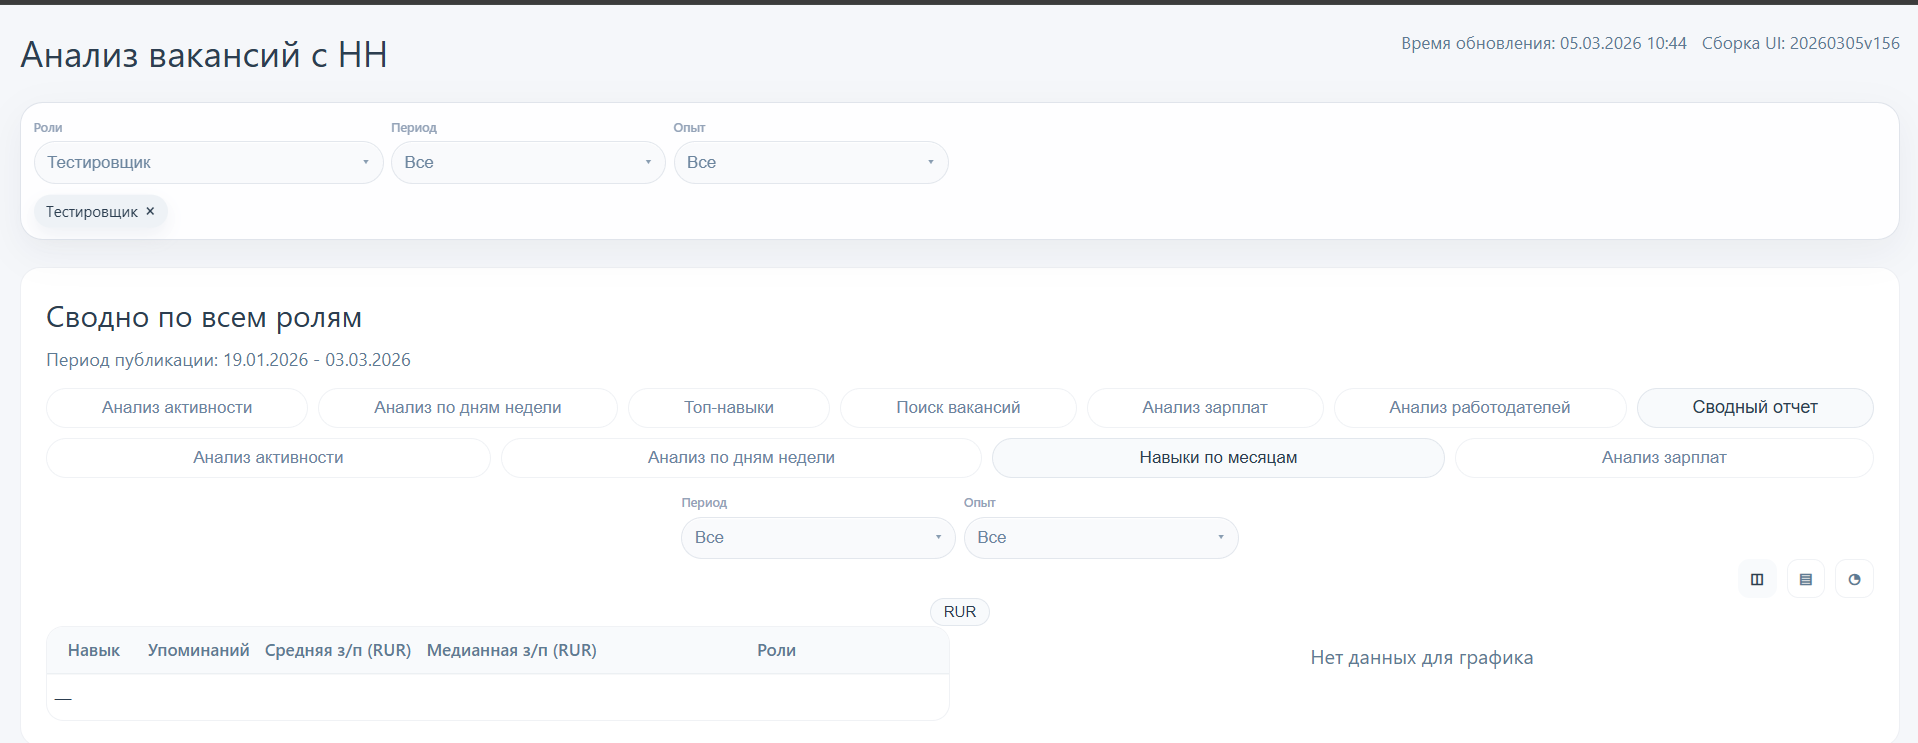
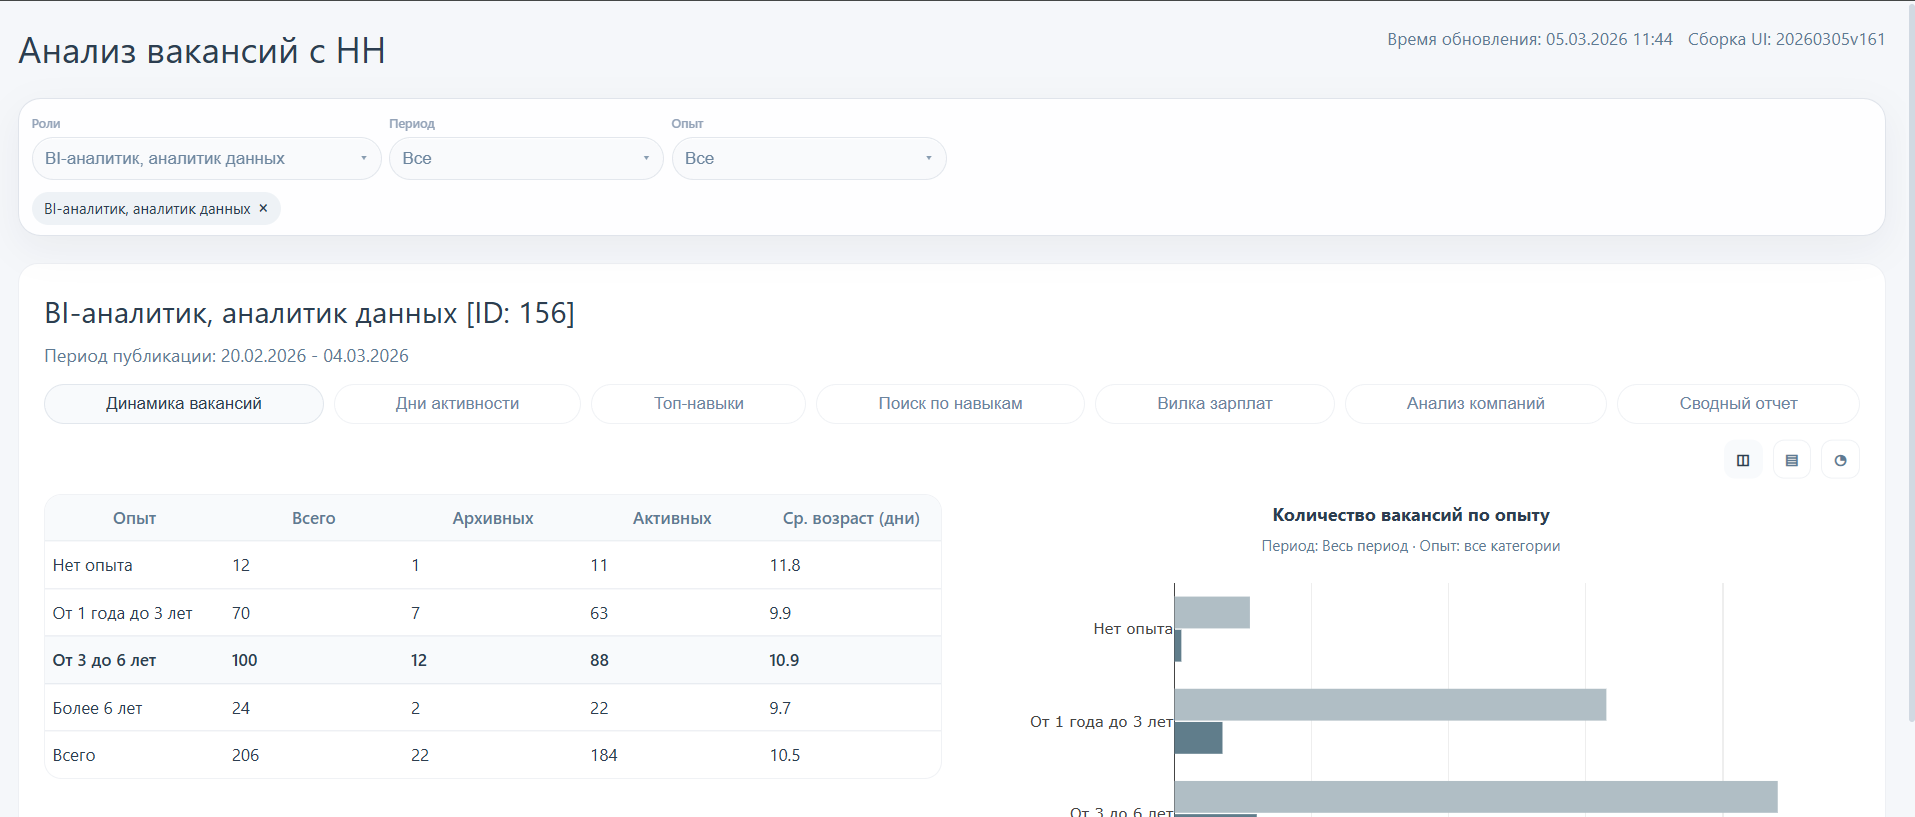
rename tabs

diff --git a/reports/report.render.js b/reports/report.render.js
@@ -608,19 +608,19 @@ function renderAllRolesContainer(container, roleContents) {
         '<h2>Сводно по всем ролям</h2>' +
         '<div class="role-period-label">Период публикации: 19.01.2026 - 03.03.2026</div>' +
         '<div class="tabs summary-return-tabs">' +
-            '<button type="button" class="tab-button analysis-button summary-return-tab" onclick="switchFromSummaryToAnalysis(\'activity\')">Анализ активности</button>' +
-            '<button type="button" class="tab-button analysis-button summary-return-tab" onclick="switchFromSummaryToAnalysis(\'weekday\')">Анализ по дням недели</button>' +
+            '<button type="button" class="tab-button analysis-button summary-return-tab" onclick="switchFromSummaryToAnalysis(\'activity\')">Динамика вакансий</button>' +
+            '<button type="button" class="tab-button analysis-button summary-return-tab" onclick="switchFromSummaryToAnalysis(\'weekday\')">Дни активности</button>' +
             '<button type="button" class="tab-button analysis-button summary-return-tab" onclick="switchFromSummaryToAnalysis(\'skills-monthly\')">Топ-навыки</button>' +
-            '<button type="button" class="tab-button analysis-button summary-return-tab" onclick="switchFromSummaryToAnalysis(\'skills-search\')">Поиск вакансий</button>' +
-            '<button type="button" class="tab-button analysis-button summary-return-tab" onclick="switchFromSummaryToAnalysis(\'salary\')">Анализ зарплат</button>' +
-            '<button type="button" class="tab-button analysis-button summary-return-tab" onclick="switchFromSummaryToAnalysis(\'employer-analysis\')">Анализ работодателей</button>' +
+            '<button type="button" class="tab-button analysis-button summary-return-tab" onclick="switchFromSummaryToAnalysis(\'skills-search\')">Поиск по навыкам</button>' +
+            '<button type="button" class="tab-button analysis-button summary-return-tab" onclick="switchFromSummaryToAnalysis(\'salary\')">Вилка зарплат</button>' +
+            '<button type="button" class="tab-button analysis-button summary-return-tab" onclick="switchFromSummaryToAnalysis(\'employer-analysis\')">Анализ компаний</button>' +
             '<button type="button" class="tab-button summary-return-tab active">Сводный отчет</button>' +
         '</div>' +
         '<div class="tabs analysis-tabs">' +
-            '<button class="tab-button analysis-button active" data-analysis-id="activity-all" onclick="switchAnalysis(event, \'activity-all\')">Анализ активности</button>' +
-            '<button class="tab-button analysis-button" data-analysis-id="weekday-all" onclick="switchAnalysis(event, \'weekday-all\')">Анализ по дням недели</button>' +
-            '<button class="tab-button analysis-button" data-analysis-id="skills-monthly-all" onclick="switchAnalysis(event, \'skills-monthly-all\')">Навыки по месяцам</button>' +
-            '<button class="tab-button analysis-button" data-analysis-id="salary-all" onclick="switchAnalysis(event, \'salary-all\')">Анализ зарплат</button>' +
+            '<button class="tab-button analysis-button active" data-analysis-id="activity-all" onclick="switchAnalysis(event, \'activity-all\')">Динамика по ролям</button>' +
+            '<button class="tab-button analysis-button" data-analysis-id="weekday-all" onclick="switchAnalysis(event, \'weekday-all\')">Лидер публикаций</button>' +
+            '<button class="tab-button analysis-button" data-analysis-id="skills-monthly-all" onclick="switchAnalysis(event, \'skills-monthly-all\')">Стоимость навыков</button>' +
+            '<button class="tab-button analysis-button" data-analysis-id="salary-all" onclick="switchAnalysis(event, \'salary-all\')">Вилка по ролям</button>' +
         '</div>' +
         buildSharedPeriodTabs() +
         activityHtml +
@@ -1029,12 +1029,12 @@ function renderCombinedContainer(container, roleContents) {
         '<h2>' + roleTitle + '</h2>' +
         '<div class="role-period-label">Период публикации: ' + period + '</div>' +
         '<div class="tabs analysis-tabs">' +
-            '<button class="tab-button analysis-button active" data-analysis-id="activity-combined" onclick="switchAnalysis(event, \'activity-combined\')">Анализ активности</button>' +
-            '<button class="tab-button analysis-button" data-analysis-id="weekday-combined" onclick="switchAnalysis(event, \'weekday-combined\')">Анализ по дням недели</button>' +
+            '<button class="tab-button analysis-button active" data-analysis-id="activity-combined" onclick="switchAnalysis(event, \'activity-combined\')">Динамика вакансий</button>' +
+            '<button class="tab-button analysis-button" data-analysis-id="weekday-combined" onclick="switchAnalysis(event, \'weekday-combined\')">Дни активности</button>' +
             '<button class="tab-button analysis-button" data-analysis-id="skills-monthly-combined" onclick="switchAnalysis(event, \'skills-monthly-combined\')">Топ-навыки</button>' +
             '<button class="tab-button analysis-button" data-analysis-id="skills-search-combined" onclick="switchAnalysis(event, \'skills-search-combined\')">Поиск по навыкам</button>' +
-            '<button class="tab-button analysis-button" data-analysis-id="salary-combined" onclick="switchAnalysis(event, \'salary-combined\')">Анализ зарплат</button>' +
-            '<button class="tab-button analysis-button" data-analysis-id="employer-analysis-combined" onclick="switchAnalysis(event, \'employer-analysis-combined\')">Анализ работодателей</button>' +
+            '<button class="tab-button analysis-button" data-analysis-id="salary-combined" onclick="switchAnalysis(event, \'salary-combined\')">Вилка зарплат</button>' +
+            '<button class="tab-button analysis-button" data-analysis-id="employer-analysis-combined" onclick="switchAnalysis(event, \'employer-analysis-combined\')">Анализ компаний</button>' +
         '</div>' +
         activityBlocks +
         weekdayBlock +

diff --git a/reports/static/report.render.js b/reports/static/report.render.js
@@ -608,19 +608,19 @@ function renderAllRolesContainer(container, roleContents) {
         '<h2>Сводно по всем ролям</h2>' +
         '<div class="role-period-label">Период публикации: 19.01.2026 - 03.03.2026</div>' +
         '<div class="tabs summary-return-tabs">' +
-            '<button type="button" class="tab-button analysis-button summary-return-tab" onclick="switchFromSummaryToAnalysis(\'activity\')">Анализ активности</button>' +
-            '<button type="button" class="tab-button analysis-button summary-return-tab" onclick="switchFromSummaryToAnalysis(\'weekday\')">Анализ по дням недели</button>' +
+            '<button type="button" class="tab-button analysis-button summary-return-tab" onclick="switchFromSummaryToAnalysis(\'activity\')">Динамика вакансий</button>' +
+            '<button type="button" class="tab-button analysis-button summary-return-tab" onclick="switchFromSummaryToAnalysis(\'weekday\')">Дни активности</button>' +
             '<button type="button" class="tab-button analysis-button summary-return-tab" onclick="switchFromSummaryToAnalysis(\'skills-monthly\')">Топ-навыки</button>' +
-            '<button type="button" class="tab-button analysis-button summary-return-tab" onclick="switchFromSummaryToAnalysis(\'skills-search\')">Поиск вакансий</button>' +
-            '<button type="button" class="tab-button analysis-button summary-return-tab" onclick="switchFromSummaryToAnalysis(\'salary\')">Анализ зарплат</button>' +
-            '<button type="button" class="tab-button analysis-button summary-return-tab" onclick="switchFromSummaryToAnalysis(\'employer-analysis\')">Анализ работодателей</button>' +
+            '<button type="button" class="tab-button analysis-button summary-return-tab" onclick="switchFromSummaryToAnalysis(\'skills-search\')">Поиск по навыкам</button>' +
+            '<button type="button" class="tab-button analysis-button summary-return-tab" onclick="switchFromSummaryToAnalysis(\'salary\')">Вилка зарплат</button>' +
+            '<button type="button" class="tab-button analysis-button summary-return-tab" onclick="switchFromSummaryToAnalysis(\'employer-analysis\')">Анализ компаний</button>' +
             '<button type="button" class="tab-button summary-return-tab active">Сводный отчет</button>' +
         '</div>' +
         '<div class="tabs analysis-tabs">' +
-            '<button class="tab-button analysis-button active" data-analysis-id="activity-all" onclick="switchAnalysis(event, \'activity-all\')">Анализ активности</button>' +
-            '<button class="tab-button analysis-button" data-analysis-id="weekday-all" onclick="switchAnalysis(event, \'weekday-all\')">Анализ по дням недели</button>' +
-            '<button class="tab-button analysis-button" data-analysis-id="skills-monthly-all" onclick="switchAnalysis(event, \'skills-monthly-all\')">Навыки по месяцам</button>' +
-            '<button class="tab-button analysis-button" data-analysis-id="salary-all" onclick="switchAnalysis(event, \'salary-all\')">Анализ зарплат</button>' +
+            '<button class="tab-button analysis-button active" data-analysis-id="activity-all" onclick="switchAnalysis(event, \'activity-all\')">Динамика по ролям</button>' +
+            '<button class="tab-button analysis-button" data-analysis-id="weekday-all" onclick="switchAnalysis(event, \'weekday-all\')">Лидер публикаций</button>' +
+            '<button class="tab-button analysis-button" data-analysis-id="skills-monthly-all" onclick="switchAnalysis(event, \'skills-monthly-all\')">Стоимость навыков</button>' +
+            '<button class="tab-button analysis-button" data-analysis-id="salary-all" onclick="switchAnalysis(event, \'salary-all\')">Вилка по ролям</button>' +
         '</div>' +
         buildSharedPeriodTabs() +
         activityHtml +
@@ -1029,12 +1029,12 @@ function renderCombinedContainer(container, roleContents) {
         '<h2>' + roleTitle + '</h2>' +
         '<div class="role-period-label">Период публикации: ' + period + '</div>' +
         '<div class="tabs analysis-tabs">' +
-            '<button class="tab-button analysis-button active" data-analysis-id="activity-combined" onclick="switchAnalysis(event, \'activity-combined\')">Анализ активности</button>' +
-            '<button class="tab-button analysis-button" data-analysis-id="weekday-combined" onclick="switchAnalysis(event, \'weekday-combined\')">Анализ по дням недели</button>' +
+            '<button class="tab-button analysis-button active" data-analysis-id="activity-combined" onclick="switchAnalysis(event, \'activity-combined\')">Динамика вакансий</button>' +
+            '<button class="tab-button analysis-button" data-analysis-id="weekday-combined" onclick="switchAnalysis(event, \'weekday-combined\')">Дни активности</button>' +
             '<button class="tab-button analysis-button" data-analysis-id="skills-monthly-combined" onclick="switchAnalysis(event, \'skills-monthly-combined\')">Топ-навыки</button>' +
             '<button class="tab-button analysis-button" data-analysis-id="skills-search-combined" onclick="switchAnalysis(event, \'skills-search-combined\')">Поиск по навыкам</button>' +
-            '<button class="tab-button analysis-button" data-analysis-id="salary-combined" onclick="switchAnalysis(event, \'salary-combined\')">Анализ зарплат</button>' +
-            '<button class="tab-button analysis-button" data-analysis-id="employer-analysis-combined" onclick="switchAnalysis(event, \'employer-analysis-combined\')">Анализ работодателей</button>' +
+            '<button class="tab-button analysis-button" data-analysis-id="salary-combined" onclick="switchAnalysis(event, \'salary-combined\')">Вилка зарплат</button>' +
+            '<button class="tab-button analysis-button" data-analysis-id="employer-analysis-combined" onclick="switchAnalysis(event, \'employer-analysis-combined\')">Анализ компаний</button>' +
         '</div>' +
         activityBlocks +
         weekdayBlock +

diff --git a/reports/report.ui.js b/reports/report.ui.js
@@ -653,8 +653,54 @@ if (typeof window !== 'undefined' && typeof plotIfChangedById === 'function') {
     };
 }
 
+function applyAnalysisTabNaming(root) {
+    var scope = root || document;
+    var mapDefault = {
+        activity: 'Динамика вакансий',
+        weekday: 'Дни активности',
+        salary: 'Вилка зарплат',
+        employer: 'Анализ компаний'
+    };
+    var mapSummary = {
+        activity: 'Динамика по ролям',
+        weekday: 'Лидер публикаций',
+        skills: 'Стоимость навыков',
+        salary: 'Вилка по ролям',
+        employer: 'Анализ компаний'
+    };
+    scope.querySelectorAll('.analysis-button[data-analysis-id]').forEach(function(btn) {
+        var id = String(btn.dataset.analysisId || '');
+        var tabsHost = btn.closest('.tabs');
+        var hasSummaryTab = !!(tabsHost && Array.from(tabsHost.querySelectorAll('button')).some(function(node) {
+            return String(node.textContent || '').trim() === 'Сводный отчет';
+        }));
+        if (hasSummaryTab) {
+            if (id.indexOf('activity-') === 0) btn.textContent = mapDefault.activity;
+            else if (id.indexOf('weekday-') === 0) btn.textContent = mapDefault.weekday;
+            else if (id.indexOf('salary-') === 0) btn.textContent = mapDefault.salary;
+            else if (id.indexOf('employer-analysis-') === 0) btn.textContent = mapDefault.employer;
+            return;
+        }
+        var isSummary = /-all$/.test(id);
+        if (id.indexOf('activity-') === 0) btn.textContent = isSummary ? mapSummary.activity : mapDefault.activity;
+        else if (id.indexOf('weekday-') === 0) btn.textContent = isSummary ? mapSummary.weekday : mapDefault.weekday;
+        else if (id.indexOf('skills-monthly-') === 0 && isSummary) btn.textContent = mapSummary.skills;
+        else if (id.indexOf('salary-') === 0) btn.textContent = isSummary ? mapSummary.salary : mapDefault.salary;
+        else if (id.indexOf('employer-analysis-') === 0) btn.textContent = isSummary ? mapSummary.employer : mapDefault.employer;
+    });
+    scope.querySelectorAll('.summary-return-tab[onclick]').forEach(function(btn) {
+        var onClick = String(btn.getAttribute('onclick') || '');
+        if (onClick.indexOf("switchFromSummaryToAnalysis('activity')") >= 0) btn.textContent = mapDefault.activity;
+        else if (onClick.indexOf("switchFromSummaryToAnalysis('weekday')") >= 0) btn.textContent = mapDefault.weekday;
+        else if (onClick.indexOf("switchFromSummaryToAnalysis('skills-search')") >= 0) btn.textContent = 'Поиск по навыкам';
+        else if (onClick.indexOf("switchFromSummaryToAnalysis('salary')") >= 0) btn.textContent = mapDefault.salary;
+        else if (onClick.indexOf("switchFromSummaryToAnalysis('employer-analysis')") >= 0) btn.textContent = mapDefault.employer;
+    });
+}
+
 // ---------- Переключение типов анализа ----------
 function switchAnalysis(evt, analysisId) {
+    applyAnalysisTabNaming(document);
     var parentRole = evt.currentTarget.closest('.role-content');
     var roleId = parentRole.id;
     var analysisButtons = parentRole.getElementsByClassName("analysis-button");

diff --git a/reports/static/report.ui.js b/reports/static/report.ui.js
@@ -653,8 +653,54 @@ if (typeof window !== 'undefined' && typeof plotIfChangedById === 'function') {
     };
 }
 
+function applyAnalysisTabNaming(root) {
+    var scope = root || document;
+    var mapDefault = {
+        activity: 'Динамика вакансий',
+        weekday: 'Дни активности',
+        salary: 'Вилка зарплат',
+        employer: 'Анализ компаний'
+    };
+    var mapSummary = {
+        activity: 'Динамика по ролям',
+        weekday: 'Лидер публикаций',
+        skills: 'Стоимость навыков',
+        salary: 'Вилка по ролям',
+        employer: 'Анализ компаний'
+    };
+    scope.querySelectorAll('.analysis-button[data-analysis-id]').forEach(function(btn) {
+        var id = String(btn.dataset.analysisId || '');
+        var tabsHost = btn.closest('.tabs');
+        var hasSummaryTab = !!(tabsHost && Array.from(tabsHost.querySelectorAll('button')).some(function(node) {
+            return String(node.textContent || '').trim() === 'Сводный отчет';
+        }));
+        if (hasSummaryTab) {
+            if (id.indexOf('activity-') === 0) btn.textContent = mapDefault.activity;
+            else if (id.indexOf('weekday-') === 0) btn.textContent = mapDefault.weekday;
+            else if (id.indexOf('salary-') === 0) btn.textContent = mapDefault.salary;
+            else if (id.indexOf('employer-analysis-') === 0) btn.textContent = mapDefault.employer;
+            return;
+        }
+        var isSummary = /-all$/.test(id);
+        if (id.indexOf('activity-') === 0) btn.textContent = isSummary ? mapSummary.activity : mapDefault.activity;
+        else if (id.indexOf('weekday-') === 0) btn.textContent = isSummary ? mapSummary.weekday : mapDefault.weekday;
+        else if (id.indexOf('skills-monthly-') === 0 && isSummary) btn.textContent = mapSummary.skills;
+        else if (id.indexOf('salary-') === 0) btn.textContent = isSummary ? mapSummary.salary : mapDefault.salary;
+        else if (id.indexOf('employer-analysis-') === 0) btn.textContent = isSummary ? mapSummary.employer : mapDefault.employer;
+    });
+    scope.querySelectorAll('.summary-return-tab[onclick]').forEach(function(btn) {
+        var onClick = String(btn.getAttribute('onclick') || '');
+        if (onClick.indexOf("switchFromSummaryToAnalysis('activity')") >= 0) btn.textContent = mapDefault.activity;
+        else if (onClick.indexOf("switchFromSummaryToAnalysis('weekday')") >= 0) btn.textContent = mapDefault.weekday;
+        else if (onClick.indexOf("switchFromSummaryToAnalysis('skills-search')") >= 0) btn.textContent = 'Поиск по навыкам';
+        else if (onClick.indexOf("switchFromSummaryToAnalysis('salary')") >= 0) btn.textContent = mapDefault.salary;
+        else if (onClick.indexOf("switchFromSummaryToAnalysis('employer-analysis')") >= 0) btn.textContent = mapDefault.employer;
+    });
+}
+
 // ---------- Переключение типов анализа ----------
 function switchAnalysis(evt, analysisId) {
+    applyAnalysisTabNaming(document);
     var parentRole = evt.currentTarget.closest('.role-content');
     var roleId = parentRole.id;
     var analysisButtons = parentRole.getElementsByClassName("analysis-button");

diff --git a/reports/templates/report_template.html b/reports/templates/report_template.html
@@ -3,26 +3,26 @@
 <head>
     <meta charset="UTF-8">
     <title>Анализ вакансий с HH - {{ current_date }} {{ current_time }}</title>
-    <link rel="stylesheet" href="styles.css?v=20260305v159">
+    <link rel="stylesheet" href="styles.css?v=20260305v162">
     <script src="plotly-2.27.0.min.js?v=20260303v6" charset="utf-8"></script>
     <script>
         if (typeof Plotly === 'undefined') {
             document.write('<script src="https://cdn.plot.ly/plotly-2.27.0.min.js" charset="utf-8"><\/script>');
         }
     </script>
-    <script src="report.state.js?v=20260305v159"></script>
-    <script src="report.utils.js?v=20260305v159"></script>
-    <script src="report.data.js?v=20260305v159"></script>
-    <script src="report.charts.js?v=20260305v159"></script>
-    <script src="report.render.js?v=20260305v159"></script>
-    <script src="report.ui.js?v=20260305v159"></script>
-    <script src="report.events.js?v=20260305v159"></script>
+    <script src="report.state.js?v=20260305v162"></script>
+    <script src="report.utils.js?v=20260305v162"></script>
+    <script src="report.data.js?v=20260305v162"></script>
+    <script src="report.charts.js?v=20260305v162"></script>
+    <script src="report.render.js?v=20260305v162"></script>
+    <script src="report.ui.js?v=20260305v162"></script>
+    <script src="report.events.js?v=20260305v162"></script>
 </head>
 <body>
     <div class="report-header">
         <h1>Анализ вакансий с HH</h1>
         <div class="report-updated-at">Время обновления: {{ current_date }} {{ current_time }}</div>
-        <div class="report-updated-at">Сборка UI: 20260305v159</div>
+        <div class="report-updated-at">Сборка UI: 20260305v162</div>
     </div>
 
     <!-- Вкладки по ролям -->
@@ -297,6 +297,9 @@
     </div>
 </body>
 </html>
+
+
+
 
 
 

diff --git a/reports/report.events.js b/reports/report.events.js
@@ -577,6 +577,7 @@ document.addEventListener('click', function(e) {
 
 // ---------- Инициализация ----------
 document.addEventListener("DOMContentLoaded", function() {
+    if (typeof applyAnalysisTabNaming === 'function') applyAnalysisTabNaming(document);
     if (typeof updateViewToggleIcons === 'function') updateViewToggleIcons(document);
     document.querySelectorAll('#role-summary-tab').forEach(function(btn) {
         if (btn && btn.parentElement) btn.parentElement.removeChild(btn);

diff --git a/reports/static/report.events.js b/reports/static/report.events.js
@@ -577,6 +577,7 @@ document.addEventListener('click', function(e) {
 
 // ---------- Инициализация ----------
 document.addEventListener("DOMContentLoaded", function() {
+    if (typeof applyAnalysisTabNaming === 'function') applyAnalysisTabNaming(document);
     if (typeof updateViewToggleIcons === 'function') updateViewToggleIcons(document);
     document.querySelectorAll('#role-summary-tab').forEach(function(btn) {
         if (btn && btn.parentElement) btn.parentElement.removeChild(btn);
